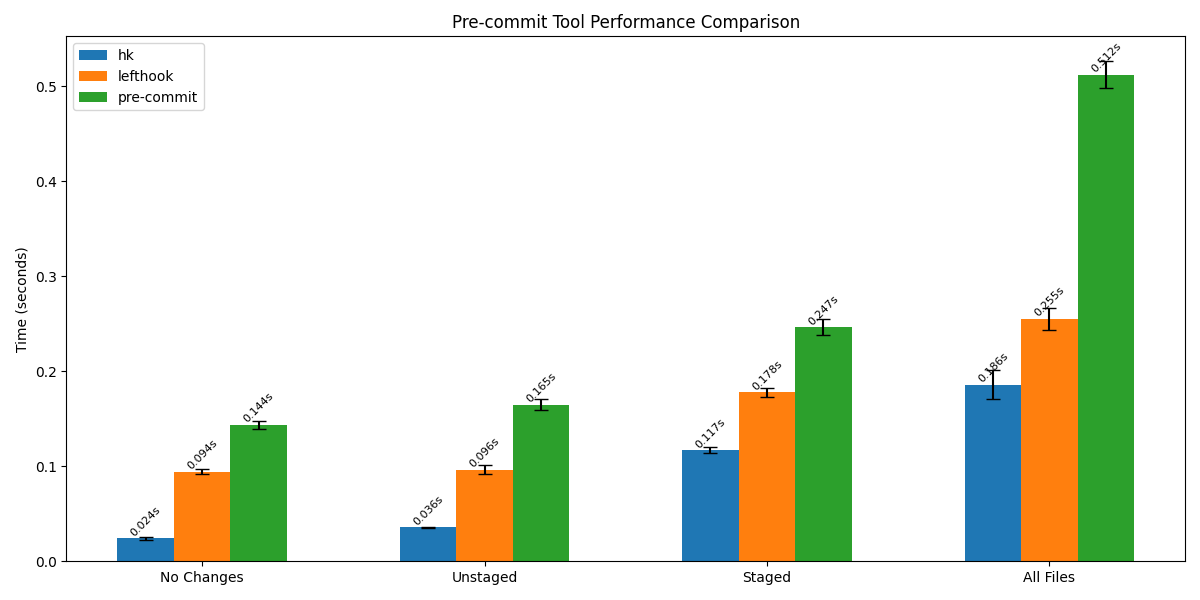
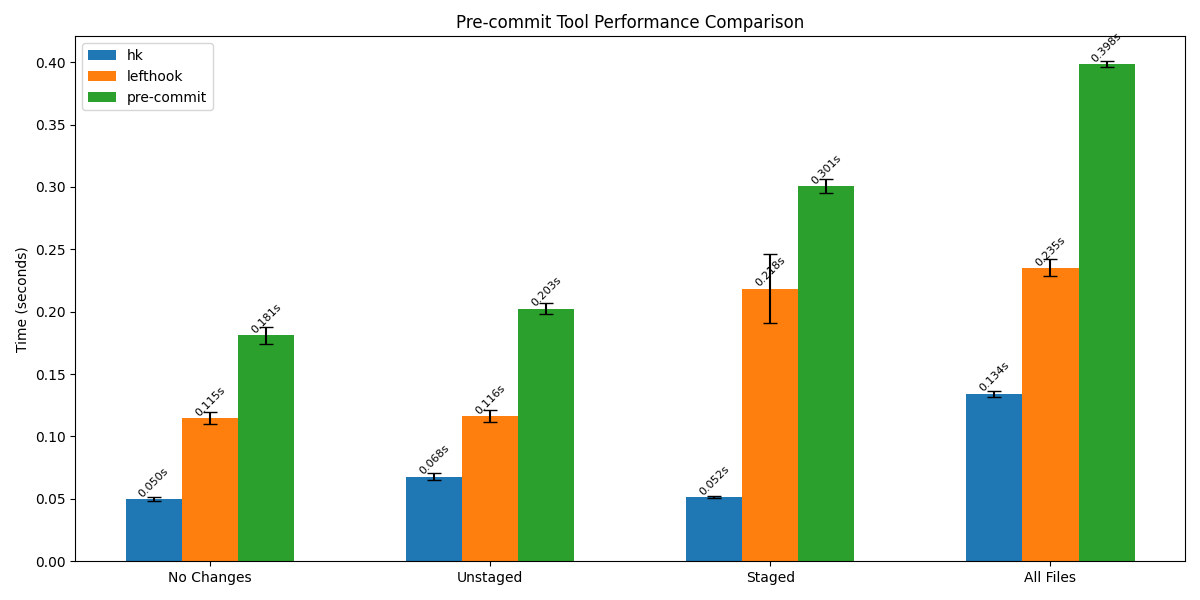
docs: update benchmark.png

diff --git a/src/git.rs b/src/git.rs
@@ -194,6 +194,9 @@ impl Git {
     }
 
     pub fn push_stash(&mut self) -> Result<Option<Oid>> {
+        if self.unstaged_files()?.is_empty() {
+            return Ok(None);
+        }
         let sig = self.repo.signature().into_diagnostic()?;
         let mut flags = git2::StashFlags::default();
         flags.set(git2::StashFlags::INCLUDE_UNTRACKED, true);
